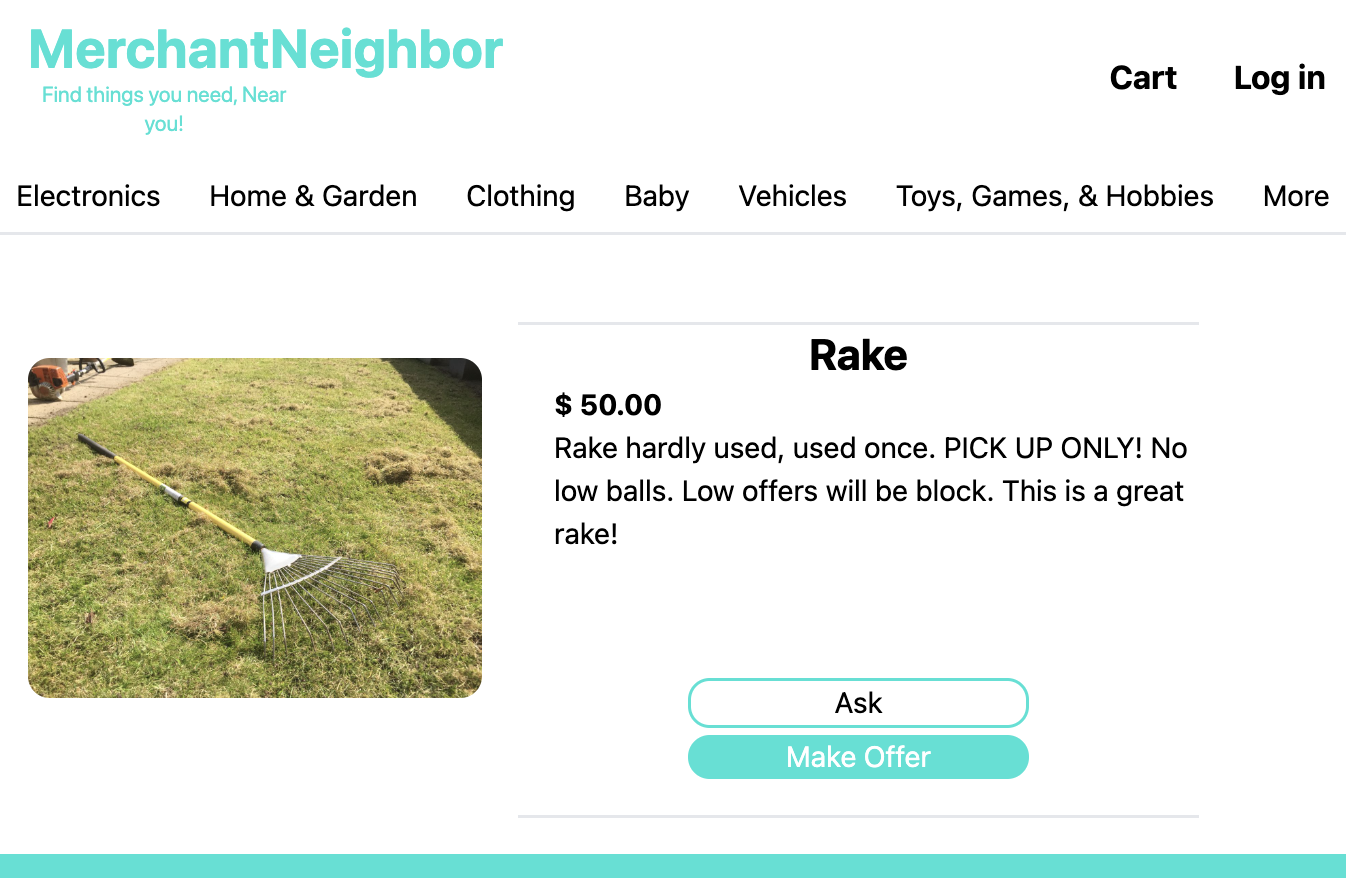
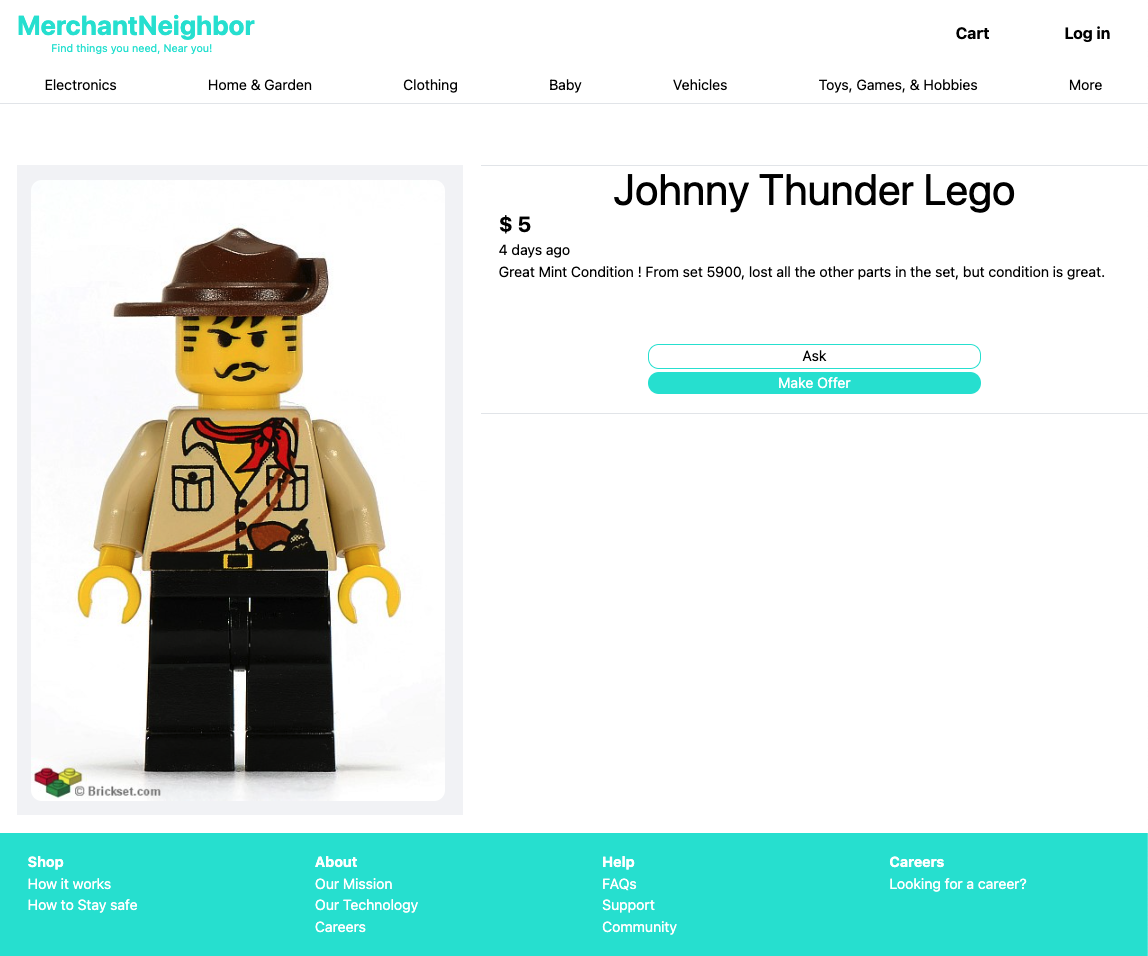
rende ui update

diff --git a/client/pages/posts/[id].js b/client/pages/posts/[id].js
@@ -32,18 +32,18 @@ const Post = () => {
       <Header />
       <NavBar />
       <div className="flex flex-row  mt-12">
-        <div className="w-1/3 h-1/3 mt-5 mx-5 bg-gray-100 p-4 block overflow-hidden">
+        <div className="w-2/5 h-1/3 mt-5 mx-5 bg-gray-100 p-4 block overflow-hidden">
           {postData.image ? (
             <img className="rounded-xl" src={postData.image} />
           ) : (
             <div className="text-center p-32">No Image</div>
           )}
         </div>
-        <div className="w-1/2 border-t-2 mt-5">
-          <h1 className="text-center text-2xl font-bold">{postData.title}</h1>
+        <div className="w-3/5 border-t-2 mt-5">
+          <h1 className="text-center text-5xl ">{postData.title}</h1>
           <div className="pb-12">
-            <h1 className="mx-5 font-bold">
-              {format("$ #,###.00", postData.price, { enforceMaskSign: true })}
+            <h1 className="mx-5 font-bold text-2xl">
+              {format("$ #,###", postData.price, { enforceMaskSign: true })}
             </h1>
             {/* <h1>{moment(postData.created).format("M-D-YYYY")}</h1> */}
             <h1 className="mx-5">{moment(postData.created).fromNow()}</h1>

diff --git a/client/components/Posts.js b/client/components/Posts.js
@@ -22,7 +22,7 @@ const Post = ({ title, image, description, price }) => {
       {price == 0 ? (
         "FREE"
       ) : (
-        <div>{format("$ #,###.00", price, { enforceMaskSign: true })}</div>
+        <div>{format("$ #,###", price, { enforceMaskSign: true })}</div>
       )}
       <p className="text-gray-400 text-sm ">{description}</p>
     </div>

diff --git a/README.md b/README.md
@@ -6,7 +6,7 @@
 
 |                            Index/Landing                            |                                                         Specific item |
 | :-----------------------------------------------------------------: | --------------------------------------------------------------------: |
-| <img src="./webappRenders/render_03.png" width=500px height=250px/> | <img src="./webappRenders/render_03_1.png" width=500px height=250px/> |
+| <img src="./webappRenders/render_03.png" width=500px height=300px/> | <img src="./webappRenders/render_03_1.png" width=500px height=300px/> |
 
 <h3>Tech Stacked Used</h3>
 
